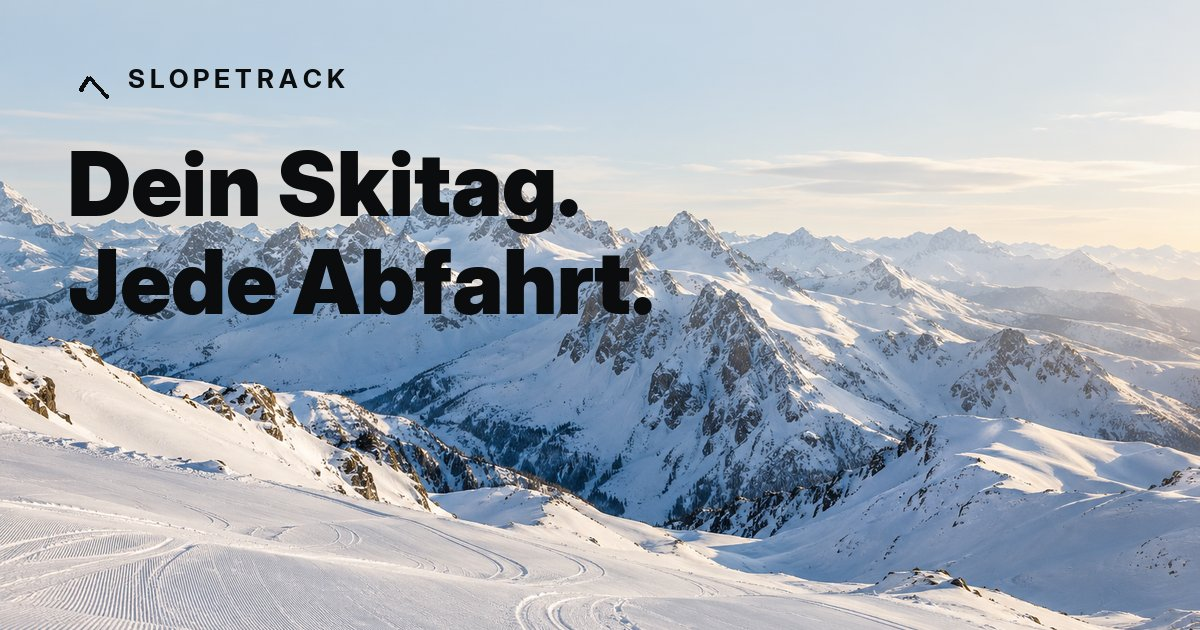
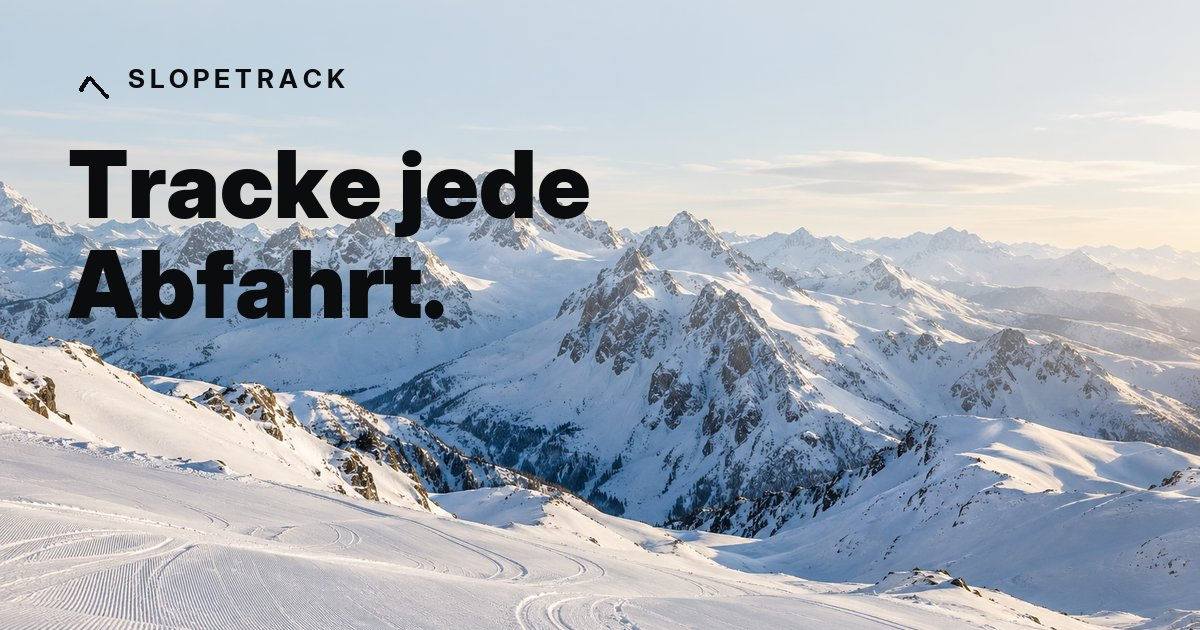
Sync from Ski@01e5527

Changed region(s): [[0.0617, 0.2413, 0.555, 0.5127]]

diff --git a/index.html b/index.html
@@ -8,7 +8,7 @@
 <meta name="description" content="Top-Speed, Höhenmeter und Abfahrten – automatisch aufgezeichnet. Dazu Pistenpläne für über 4.000 Skigebiete, Tagesduelle und Ranglisten mit Freunden.">
 <meta property="og:type" content="website">
 <meta property="og:url" content="https://slopetrack.torchtechnology.de/">
-<meta property="og:title" content="SlopeTrack – Dein Skitag. Jede Abfahrt.">
+<meta property="og:title" content="SlopeTrack – Tracke jede Abfahrt.">
 <meta property="og:description" content="Top-Speed, Höhenmeter und Abfahrten – automatisch aufgezeichnet. Und am Abend siehst du, wer von euch am schnellsten war.">
 <meta property="og:image" content="https://slopetrack.torchtechnology.de/img/og.jpg">
 <meta name="twitter:card" content="summary_large_image">
@@ -134,7 +134,7 @@ footer a:hover{color:var(--paper)}
 <main>
 <section class="hero">
   <p class="kicker" data-en="Ski tracker for iPhone and Apple Watch">Ski-Tracker für iPhone und Apple Watch</p>
-  <h1 data-en="Your ski day.<br>Every run.">Dein Skitag.<br>Jede Abfahrt.</h1>
+  <h1 data-en="Track<br>every run.">Tracke jede<br>Abfahrt.</h1>
   <p class="lead" data-en="Top speed, vertical and runs – recorded automatically. And at the end of the day, see who in your crew was fastest.">Top-Speed, Höhenmeter und Abfahrten – automatisch aufgezeichnet. Und am Abend siehst du, wer von euch am schnellsten war.</p>
   <a class="btn dark store" href="#" aria-disabled="true">Bald im App Store</a>
   <p class="note" data-en="Try it free for 3 days">3 Tage gratis testen</p>
@@ -147,7 +147,7 @@ footer a:hover{color:var(--paper)}
 
 <div class="dark">
   <div class="stats">
-    <div><div class="num" data-en="1&nbsp;tap">1&nbsp;Tipp</div><p data-en="starts your ski day">startet den Skitag</p></div>
+    <div><div class="num" data-en="1&nbsp;tap">1&nbsp;Klick</div><p data-en="starts your ski day">startet den Skitag</p></div>
     <div><div class="num" data-en="4,000+">4.000+</div><p data-en="resorts with piste maps">Skigebiete mit Pistenplan</p></div>
     <div><div class="num">11</div><p data-en="languages">Sprachen</p></div>
   </div>
